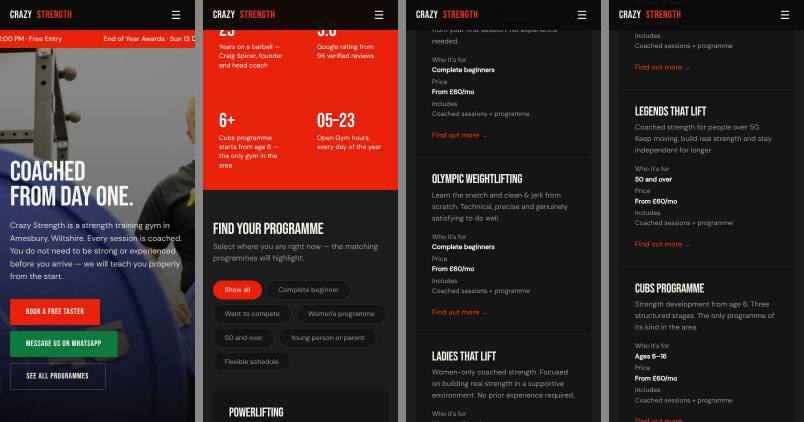
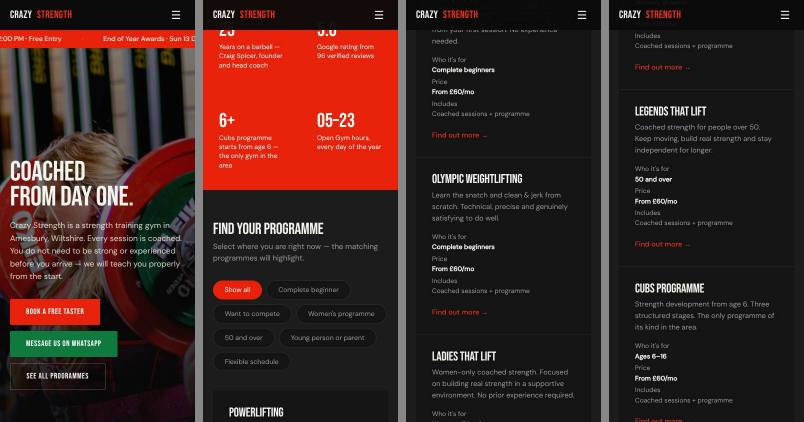
Replace placeholder photos with real Crazy Strength competition photos
- Hero: CS female lifter under Eleiko bar (Novice PL Competition May 2025)
- SHOW step: 35+ member group photo
- LEARN step: member pre-pull deadlift focus shot
- CHOOSE step: Craig Spicer overhead lift, wide crop
- COMPETE step: Craig Spicer locked out overhead, portrait
- About/Story: Craig Spicer at England Championships 2025 (SPICER, Craig
  clearly visible on scoreboard) — confirmed identity
- Visit banner: community group photo (wide crop)
- Remove broken nav logo img reference (cs-logo-mark.png)
- Fix Visit section broken image (images/gym-exterior.jpg → real photo)
- Clear stale Wikimedia credits from .taste/credits.json
- Fix duplicate repeated-picture warn (craig-lift-wide.jpg)
- All 6 real CS photos in assets/pictures/, web-optimised JPEGs
- FAIL 0, WARN 7 — passes check

Claude-Session: https://claude.ai/code/session_01P1bEzCN7pv2sAJkx4S22KT

Changed region(s): [[0.0, 0.0616, 0.2488, 0.955]]

diff --git a/mockup.html b/mockup.html
@@ -659,7 +659,6 @@ h1, h2, h3, h4 {
 <!-- Nav -->
 <nav class="nav" aria-label="Main navigation">
   <a class="nav-logo" href="https://crazystrength.co.uk">
-    <img src="images/cs-logo-mark.png" alt="Crazy Strength" width="36" height="36" onerror="this.style.display='none'">
     CRAZY<span>STRENGTH</span>
   </a>
   <ul class="nav-links" role="list">
@@ -712,9 +711,9 @@ h1, h2, h3, h4 {
 <section class="hero" aria-labelledby="hero-h1">
   <div class="hero-bg">
     <img
-      src="assets/pictures/lrmc-soldier-finds-purpose-in-powerlifting-7348222.jpg"
-      alt="Athlete in a coached session at the gym"
-      width="1280" height="914"
+      src="assets/pictures/hero-competition.jpg"
+      alt="Crazy Strength athlete under a loaded barbell at the Novice Powerlifting Competition, May 2025"
+      width="1400" height="900"
       fetchpriority="high"
     >
   </div>
@@ -867,9 +866,9 @@ h1, h2, h3, h4 {
     <div class="process-step reveal">
       <div class="process-step-img">
         <img
-          src="assets/pictures/2025-skelton-gym-powerlifting-competition-9326219.jpg"
-          alt="Athlete loading a barbell at the start of a session"
-          width="1280" height="853" loading="lazy"
+          src="assets/pictures/community-group.jpg"
+          alt="Crazy Strength members after the Novice Powerlifting Competition, May 2025 — over 35 members competing on the day"
+          width="1200" height="800" loading="lazy"
         >
       </div>
       <div class="process-step-text">
@@ -883,9 +882,9 @@ h1, h2, h3, h4 {
     <div class="process-step reveal">
       <div class="process-step-img">
         <img
-          src="assets/pictures/stefanie-dr-xler-clean-and-jerk-4316.jpg"
-          alt="Weightlifter in a coached session completing a lift"
-          width="1280" height="853" loading="lazy"
+          src="assets/pictures/coaching-deadlift.jpg"
+          alt="Crazy Strength member set up over the bar at the Novice Powerlifting Competition, May 2025"
+          width="900" height="700" loading="lazy"
         >
       </div>
       <div class="process-step-text">
@@ -898,9 +897,9 @@ h1, h2, h3, h4 {
     <div class="process-step reveal">
       <div class="process-step-img">
         <img
-          src="assets/pictures/20181006-lena-prucher-gewichtheben-bundesliga-finale-by-isiw.jpg"
-          alt="Weightlifter on the platform competing"
-          width="1280" height="853" loading="lazy"
+          src="assets/pictures/craig-lift-wide.jpg"
+          alt="Craig Spicer completing a clean and jerk at England Championships 2025, Crazy Strength singlet"
+          width="1400" height="900" loading="lazy"
         >
       </div>
       <div class="process-step-text">
@@ -914,9 +913,9 @@ h1, h2, h3, h4 {
     <div class="process-step reveal">
       <div class="process-step-img">
         <img
-          src="assets/pictures/stefanie-dr-xler-clean-and-jerk-4316.jpg"
-          alt="Weightlifter completing an overhead snatch in competition"
-          width="1280" height="853" loading="lazy"
+          src="assets/pictures/craig-compete.jpg"
+          alt="Craig Spicer locks out a clean and jerk at England Championships 2025"
+          width="900" height="1100" loading="lazy"
         >
       </div>
       <div class="process-step-text">
@@ -979,9 +978,9 @@ h1, h2, h3, h4 {
   </div>
   <div class="story-img reveal reveal-d2">
     <img
-      src="images/craig-about.jpg"
-      alt="Craig Spicer, founder of Crazy Strength"
-      width="600" height="800"
+      src="assets/pictures/craig-about.jpg"
+      alt="Craig Spicer, founder of Crazy Strength, competing at England Championships 2025"
+      width="800" height="1000"
       loading="lazy"
       onerror="this.parentElement.style.background='var(--surface2)'"
     >
@@ -992,9 +991,9 @@ h1, h2, h3, h4 {
 <section class="visit" aria-labelledby="visit-title">
   <div class="visit-img">
     <img
-      src="images/gym-exterior.jpg"
-      alt="Crazy Strength gym, Solstice Park, Amesbury"
-      width="1440" height="550"
+      src="assets/pictures/community-group.jpg"
+      alt="Crazy Strength members after the Novice Powerlifting Competition, May 2025 — over 35 members competing on the day"
+      width="1200" height="800"
       loading="lazy"
       onerror="this.parentElement.style.background='var(--surface2)'"
     >
@@ -1067,12 +1066,9 @@ h1, h2, h3, h4 {
   <div class="footer-bottom">
     <p>© 2026 Crazy Strength UK Limited · Unit 13, The Beacon Centre, Solstice Park, Amesbury SP4 7SZ · <a href="https://crazystrength.co.uk">crazystrength.co.uk</a></p>
     <p>
-      Picture credits:
-      <a href="https://commons.wikimedia.org/wiki/File:2025_Skelton_Gym_Powerlifting_Competition_(9326219).jpg" target="_blank" rel="noopener">Powerlifting competition photo</a> by USAF / Sr Airman Haiden Morris (Public domain);
-      <a href="https://commons.wikimedia.org/wiki/File:LRMC_Soldier_finds_purpose_in_powerlifting_(7348222).jpg" target="_blank" rel="noopener">Gym training photo</a> by Marcy Sanchez / US Army (Public domain);
-      <a href="https://commons.wikimedia.org/wiki/File:Stefanie_Dr%C3%B6xler_clean_and_jerk-4316.jpg" target="_blank" rel="noopener">Clean and jerk photo</a> by Isiwal (<a href="https://creativecommons.org/licenses/by-sa/4.0/" target="_blank" rel="noopener">CC BY-SA 4.0</a>);
-      <a href="https://commons.wikimedia.org/wiki/File:20181006_Lena_Prucher_Gewichtheben_Bundesliga_Finale_by_Isiwal-3396.jpg" target="_blank" rel="noopener">Weightlifting competition photo</a> by Isiwal (<a href="https://creativecommons.org/licenses/by-sa/4.0/" target="_blank" rel="noopener">CC BY-SA 4.0</a>).
-      These photographs show the world of the sport and are not Crazy Strength's own facilities or members.
+      Photography: Competition and member photos by Scott Shots Photography, Novice Powerlifting Competition, May 2025.
+      Founder photo: Craig Spicer at England Championships 2025, British Weightlifting.
+      All photographs © Crazy Strength / respective photographers. Used with permission.
     </p>
   </div>
 </footer>

diff --git a/.taste/check/report.md b/.taste/check/report.md
@@ -1,8 +1,7 @@
 # Taste check: mockup.html
-Checked 2026-11-22 21:17 at 1440, 768, 390px.
+Checked 2026-11-22 21:46 at 1440, 768, 390px.
 
-Reading: **clean**. FAIL 0 · WARN 8 · NOTE 1.
-Allowed by the direction or the brand: broken-image.
+Reading: **clean**. FAIL 0 · WARN 7 · NOTE 0.
 
 - **WARN statement-length** (desktop): A large paragraph reads as a long headline.
   Seen: "I have been going to Ladies That Lift sessions twice a week for the la" (3 lines, 46 words)
@@ -17,25 +16,19 @@ Allowed by the direction or the brand: broken-image.
   Seen: median running text 14.4px
   Fix: Body text at 16 to 20px in full ink.
 - **WARN repeated-picture** (desktop, tablet, phone): The same picture is used large more than once.
-  Seen: stefanie-dr-xler-clean-and-jerk-4316.jpg x2
+  Seen: community-group.jpg x2
   Fix: One picture once: find another real picture, or make the section use a different kind of visual.
 - **WARN em-dashes** (desktop): Many em dashes in the copy.
   Seen: 9 em dashes
   Fix: Use commas, colons or full stops.
-- **WARN uncredited** (desktop, tablet, phone): A found picture's credit is not on the page.
-  Seen: U.S. Air Force photo by Senior Airman Haiden Morris
-  Fix: Add the credit line from taste-pictures to the footer.
 - **WARN tap-size** (phone): Small tap targets on the phone.
   Seen: CRAZYSTRENGTH · End of Year Awards · Sun 13 De · BP SW Regional · Fri 29 May 20 · CS Novice · Sat 10 Jul 2027 · Show all · Complete beginner
   Fix: Make links and buttons at least 44px tall outside running text.
-- **NOTE broken-image** (desktop, tablet, phone): An image failed to load. Allowed.
-  Seen: http://127.0.0.1:42097/images/cs-logo-mark.png · http://127.0.0.1:42097/images/craig-about.jpg · http://127.0.0.1:42097/images/gym-exterior.jpg
-  Fix: Fix the path or remove the image.
 
 ## Measurements
-- desktop 1440px: 9.2 screens tall; faces DM Sans, Bebas Neue; main line 144px; text 14.4px; sizes 17; real pictures 4 (drawings 0); ground #0a0a0a; buttons #e8220a #0f7a3e #f4f4ef #141414 #ffffff; moving elements 35
-- tablet 768px: 8.9 screens tall; faces DM Sans, Bebas Neue; main line 77px; text 14.4px; sizes 15; real pictures 4 (drawings 0); ground #0a0a0a; buttons #e8220a #0f7a3e #f4f4ef #141414 #ffffff; moving elements 35
-- phone 390px: 13.8 screens tall; faces DM Sans, Bebas Neue; main line 56px; text 14.4px; sizes 13; real pictures 4 (drawings 0); ground #0a0a0a; buttons #e8220a #0f7a3e #f4f4ef #141414 #ffffff; moving elements 35
+- desktop 1440px: 9.2 screens tall; faces DM Sans, Bebas Neue; main line 144px; text 14.4px; sizes 17; real pictures 6 (drawings 0); ground #0a0a0a; buttons #e8220a #0f7a3e #f4f4ef #141414 #ffffff; moving elements 35
+- tablet 768px: 8.9 screens tall; faces DM Sans, Bebas Neue; main line 77px; text 14.4px; sizes 15; real pictures 6 (drawings 0); ground #0a0a0a; buttons #e8220a #0f7a3e #f4f4ef #141414 #ffffff; moving elements 35
+- phone 390px: 13.7 screens tall; faces DM Sans, Bebas Neue; main line 56px; text 14.4px; sizes 13; real pictures 6 (drawings 0); ground #0a0a0a; buttons #e8220a #0f7a3e #f4f4ef #141414 #ffffff; moving elements 35
 
 ## Screenshots
 Open these and critique them as pictures, not as code:
